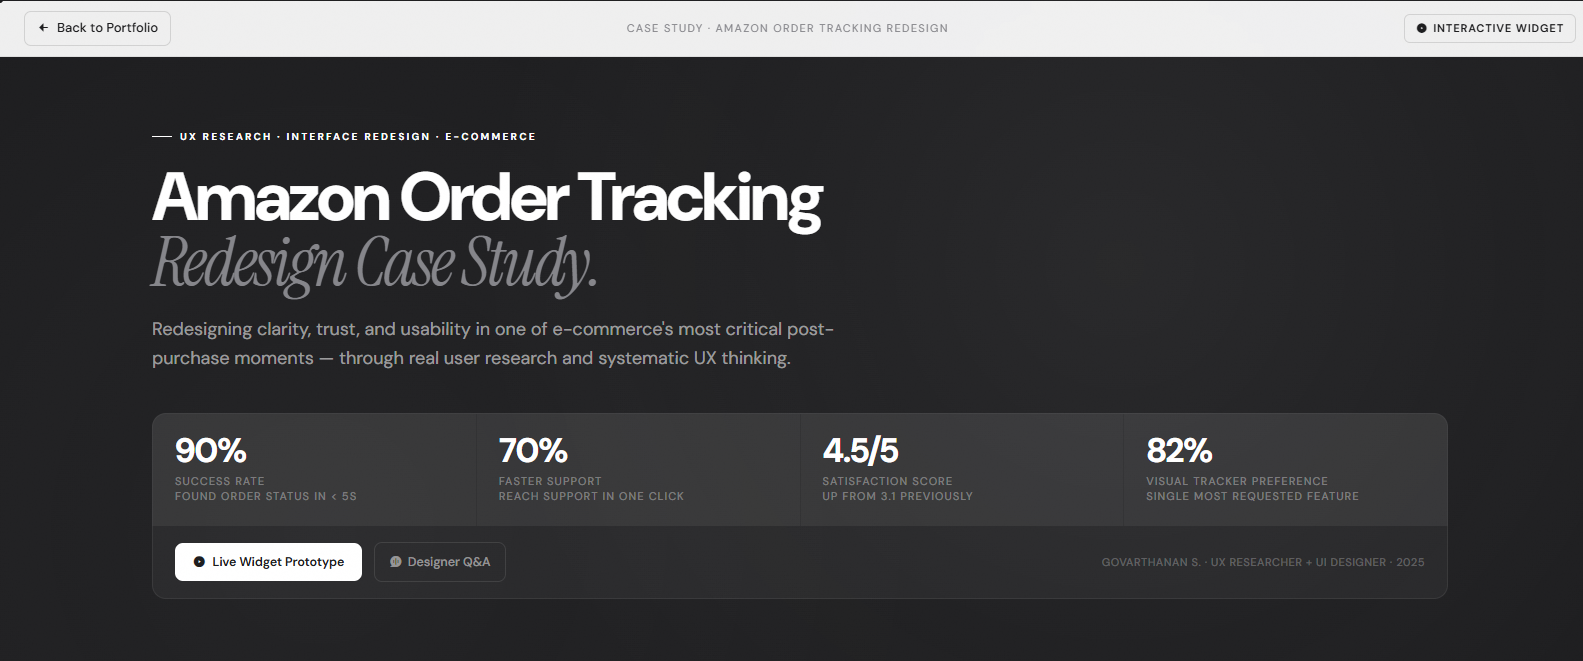
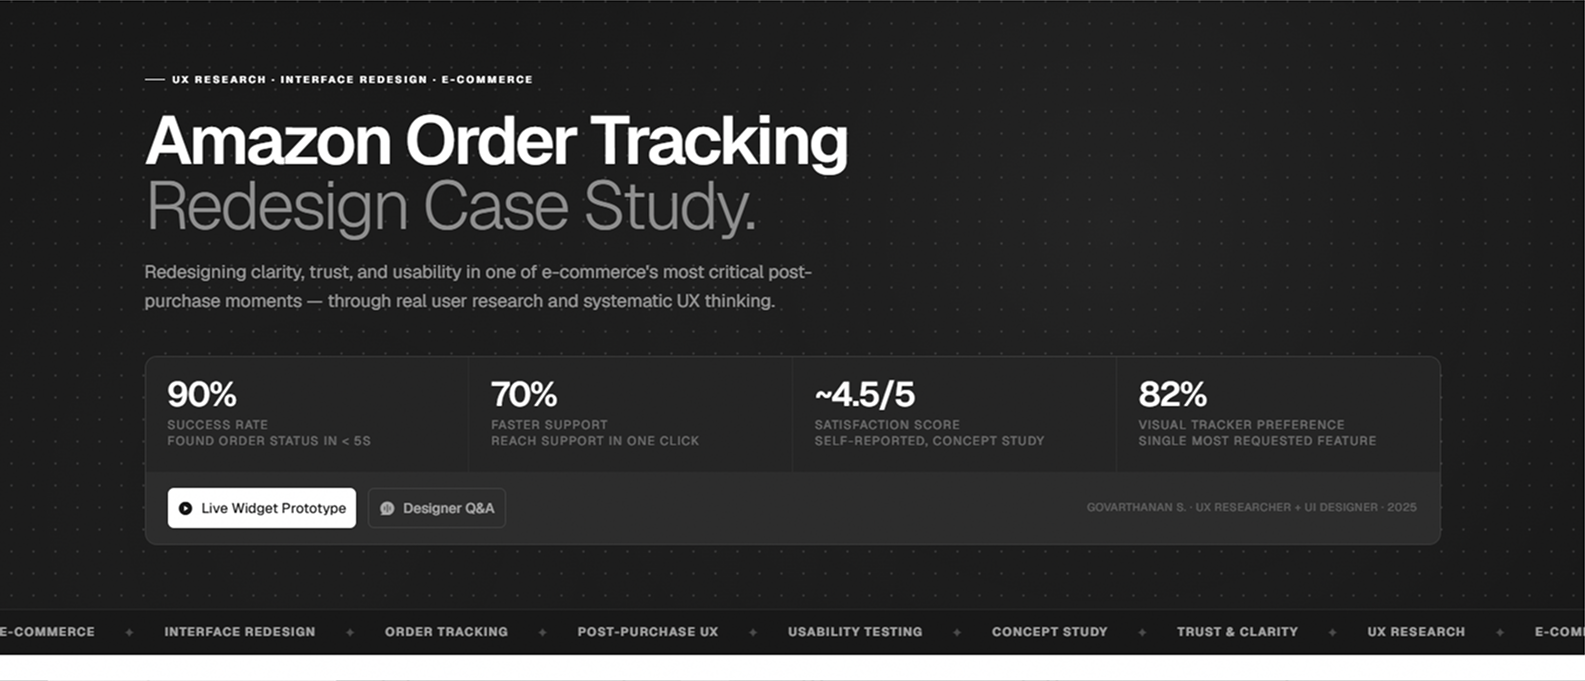
Add River Rumble Blast to the case studies modal, refresh previews
New card for River Rumble Blast (5th case study) with its own tag,
description, and link, using a fresh screenshot at the same crop
height as the other four. Also swapped in updated same-height
screenshots for SDS Motion Forge, FrameStack PDF, Amazon Order
Tracking, and replaced Unbond's old SVG mockup with a matching PNG
screenshot, so every card in the modal is visually consistent.

diff --git a/index.html b/index.html
@@ -8009,7 +8009,7 @@
         <div class="cs-modal-head">
           <div class="cs-modal-eyebrow">Selected Work</div>
           <div class="cs-modal-title" id="csModalTitle">
-            Four case studies.<br /><em>Pick one.</em>
+            Five case studies.<br /><em>Pick one.</em>
           </div>
         </div>
 
@@ -8087,7 +8087,7 @@
           <div class="cs-item">
             <div class="cs-item-img-wrap">
               <img
-                src="images/previews/unbond-case-study.svg"
+                src="images/previews/unbond-case-study.png"
                 alt="Unbond case study preview"
                 loading="lazy"
               />
@@ -8103,6 +8103,30 @@
                 market value.
               </p>
               <a href="unbond-case-study.html" class="cs-item-btn">
+                <i class="ri-file-text-fill"></i> View Case Study
+              </a>
+            </div>
+          </div>
+
+          <div class="cs-item">
+            <div class="cs-item-img-wrap">
+              <img
+                src="images/previews/river-rumble-blast-case-study.png"
+                alt="River Rumble Blast case study preview"
+                loading="lazy"
+              />
+            </div>
+            <div class="cs-item-content">
+              <div class="cs-item-tag">
+                <i class="ri-flashlight-fill"></i> Event Branding
+              </div>
+              <div class="cs-item-name">River Rumble Blast</div>
+              <p class="cs-item-desc">
+                1,400 tickets sold from zero brand equity in 20 days — a
+                full-stack branding, campaign, and digital execution for a
+                sold-out Pondicherry NYE event.
+              </p>
+              <a href="river-rumble-blast-case-study.html" class="cs-item-btn">
                 <i class="ri-file-text-fill"></i> View Case Study
               </a>
             </div>
